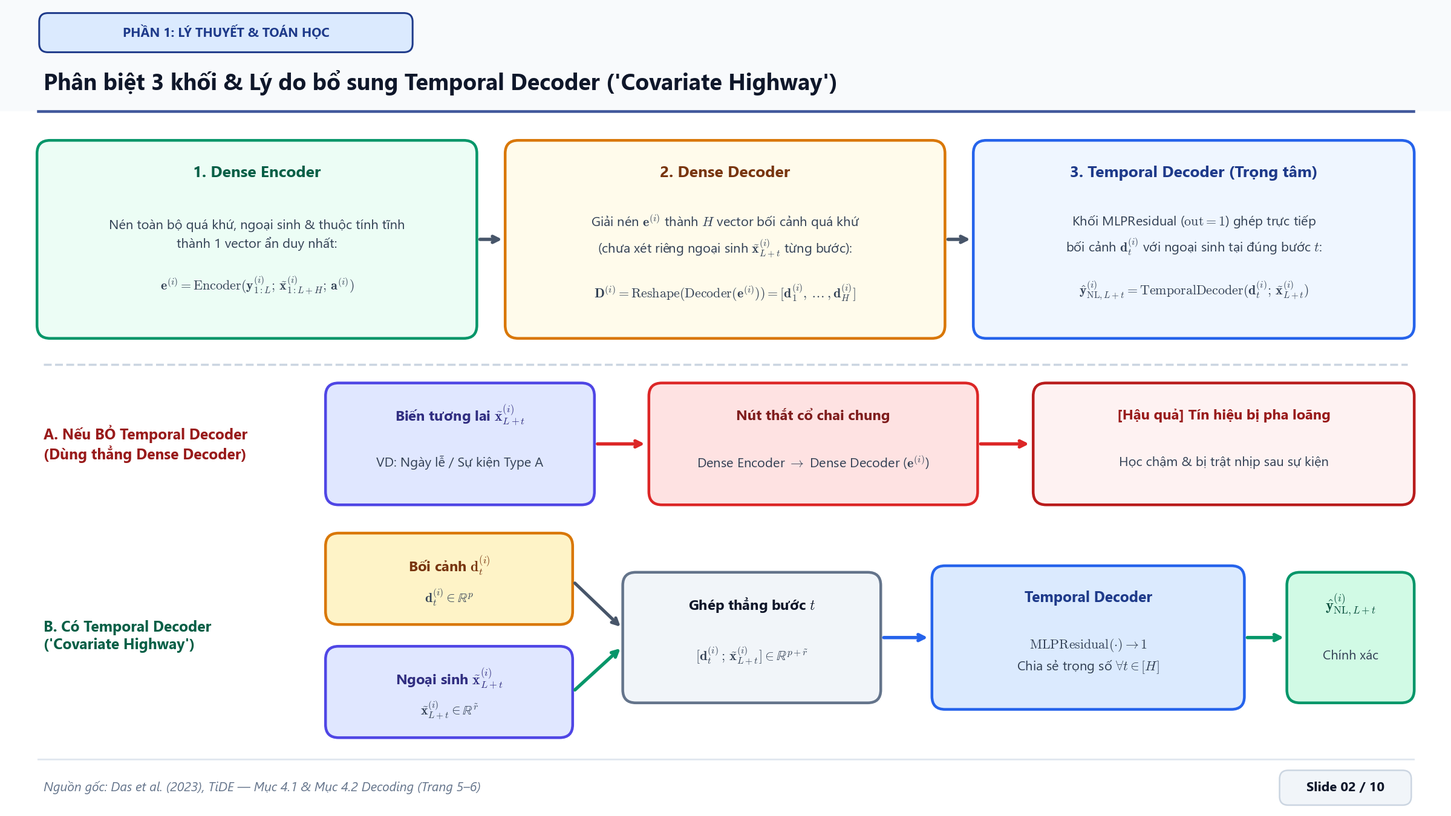
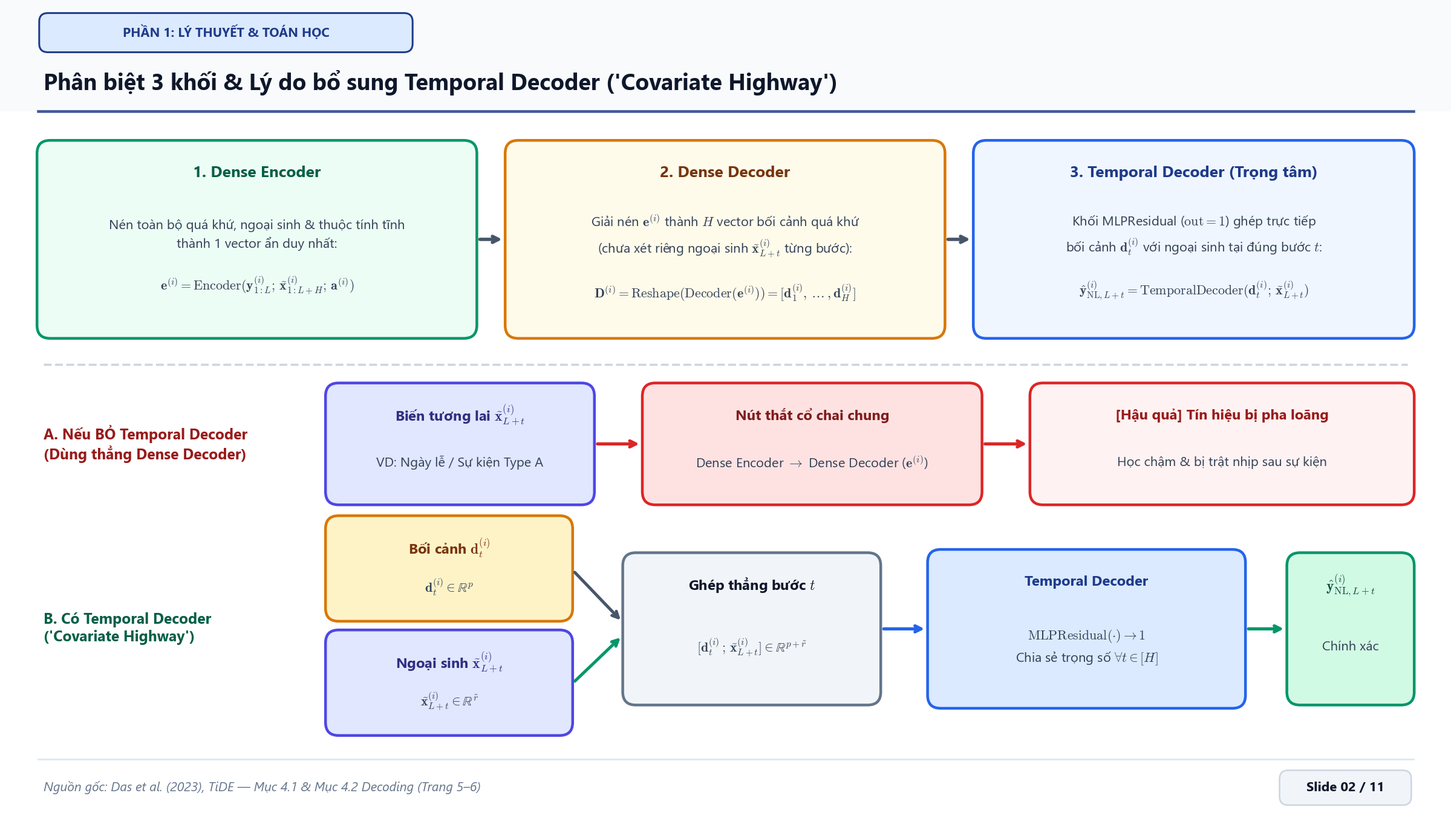
feat(slide): add Hyperparameters slide (Table 8 across 7 datasets) and update deck numbering to 11/11

diff --git a/tasks-Hieu/presentation/slide/slide_02_phan_2_source_code_va_phan_tich.md b/tasks-Hieu/presentation/slide/slide_02_phan_2_source_code_va_phan_tich.md
@@ -1,23 +1,27 @@
-# SLIDE 02 (PHẦN 2): SOURCE CODE & PHÂN TÍCH ABLATION STUDY — TEMPORAL DECODER VÀ GLOBAL RESIDUAL
+# SLIDE 02 (PHẦN 2): SOURCE CODE, HYPERPARAMETERS & PHÂN TÍCH ABLATION STUDY
 
 > [!NOTE]
-> **Mục tiêu Slide 02 (Phần 2):** Trình bày **Source code hiện thực tương ứng** trong repository gốc Google Research (`models.py`) và bản PyTorch trong dự án; phân tích vai trò thực chứng của **Temporal Decoder** và **Global Residual** qua hai thí nghiệm **Ablation Study** chính thức từ bài báo (Mục 5.4, Trang 10–11) cùng các giới hạn tiềm ẩn.
+> **Mục tiêu Slide 02 (Phần 2):** Trình bày **Source code hiện thực tương ứng** (`models.py` & PyTorch); hệ thống hóa **cấu hình Hyperparameters chính thức trên 7 Benchmark Datasets** (Phụ lục B.3, Table 7 & Table 8, Trang 20–21); và phân tích vai trò thực chứng của **Temporal Decoder** và **Global Residual** qua hai thí nghiệm **Ablation Study** (Mục 5.4, Trang 10–11).
 
 ---
 
 ## 🖼 Hình Ảnh & Sơ Đồ Minh Họa Đưa Lên Slide
 
-### 2.1. Slide 05 / 10 — Source code chính thức (`models.py`) & Ánh xạ phương trình toán học
+### 2.1. Slide 05 / 11 — Source code chính thức (`models.py`) & Ánh xạ phương trình toán học
 
 ![Slide 05: Source code models.py và ánh xạ phương trình](./images/slide_05_source_code_va_equation.png)
 
-### 2.2. Slide 06 / 10 — Ablation Study 1 (Figure 3 Trang 10–11): Vai trò Temporal Decoder
+### 2.2. Slide 06 / 11 — Cấu hình Siêu tham số (Hyperparameters — Table 7 & Table 8, Trang 20–21)
 
-![Slide 06: Ablation Study 1 Temporal Decoder Figure 3](./images/slide_06_ablation_temporal_decoder.png)
+![Slide 06: Cấu hình Siêu tham số Hyperparameters trên 7 Datasets](./images/slide_06_cau_hinh_hyperparameter.png)
 
-### 2.3. Slide 07 / 10 — Ablation Study 2 (Table 5 Trang 11): Vai trò Residual Connections (`Electricity`)
+### 2.3. Slide 07 / 11 — Ablation Study 1 (Figure 3 Trang 10–11): Vai trò Temporal Decoder
 
-![Slide 07: Ablation Study 2 Residual Connections Electricity](./images/slide_07_ablation_global_residual.png)
+![Slide 07: Ablation Study 1 Temporal Decoder Figure 3](./images/slide_07_ablation_temporal_decoder.png)
+
+### 2.4. Slide 08 / 11 — Ablation Study 2 (Table 5 Trang 11): Vai trò Residual Connections (`Electricity`)
+
+![Slide 08: Ablation Study 2 Residual Connections Electricity](./images/slide_08_ablation_global_residual.png)
 
 ---
 
@@ -55,14 +59,24 @@ y_hat_lin = self.global_skip(y_norm)                                 # Dòng 252
 y_hat_norm = y_hat_nl + y_hat_lin                                    # Dòng 265: [B, H]
 ```
 
-### 2. Phân tích Ablation Study 1: Vai trò Temporal Decoder (Figure 3, Trang 10–11)
+### 2. Cấu hình Siêu tham số (Hyperparameters — Phụ lục B.3, Table 7 & Table 8, Trang 20–21)
+
+* **Nhóm tham số cố định chung (*Global Settings*):** Cửa sổ quá khứ $L = 720$, tầm dự báo $H \in \{96, 192, 336, 720\}$, kích thước batch `batchSize = 512`, độ rộng nén ngoại sinh `temporalWidth` ($\tilde{r}$) $= 4$, hàm mất mát MSE, bộ tối ưu Adam với lịch giảm Cosine LR Decay; bật/tắt `layerNorm`, `dropoutLevel` và `revIn` theo từng bộ dữ liệu.
+* **Siêu tham số trực tiếp của 2 cơ chế trình bày:**
+  * **Temporal Decoder:** Dùng 2 siêu tham số chính là `decoderOutputDim` ($p \in \{4, 8, 16, 32\}$) và `temporalDecoderHidden` (thực nghiệm chọn $\in \{16, 64, 128\}$). Chiều đầu vào tầng cuối cố định bằng $p + \tilde{r} = p + 4$.
+  * **Global Residual Connection:** Không phát sinh siêu tham số ẩn; kích thước ma trận tuyến tính cố định hoàn toàn theo $(L, H) = (720, H)$.
+* **Quy luật chọn cấu hình trên 7 Benchmark Datasets (Table 8, Trang 21):**
+  * Các tập quy mô lớn nhiều chuỗi (`Traffic` 862 chuỗi, `Electricity` 321 chuỗi) đặt `temporalDecoderHidden = 64` với $p \in \{8, 16\}$.
+  * Nhóm `ETT` (`ETTm1`, `ETTm2`, `ETTh1`, `ETTh2` — 7 biến trạm biến áp) thường tăng `temporalDecoderHidden = 128` hoặc tăng $p = 32$ (`ETTh2`). Tập `Weather` biến thiên mượt hơn chỉ cần `temporalDecoderHidden = 16`, $p = 8$.
+
+### 3. Phân tích Ablation Study 1: Vai trò Temporal Decoder (Figure 3, Trang 10–11)
 
 * **Thiết kế thí nghiệm:** Dữ liệu `Electricity` bán tổng hợp thêm sự kiện **Type A** (nhân biên độ chuỗi lên hệ số ngẫu nhiên trong $[3.0, 3.2]$ kéo dài $24\text{h}$) và **Type B** (giảm theo hệ số $[2.0, 2.2]$) tác động lên $80\%$ chuỗi, đánh giá chỉ sau **1 Epoch**.
 * **Kết quả quan sát:**
   * **Trong khi xảy ra sự kiện Type A:** Bản có Temporal Decoder bám kịp biên độ tăng đột biến nhanh hơn nhờ đường cao tốc nối thẳng từ biến ngoại sinh chỉ báo sự kiện.
   * **Ngay sau khi sự kiện kết thúc (`Time > 200`):** Bản **không có Temporal Decoder (đường xanh lá) bị trật nhịp nặng (thrown off)** vì `Dense Encoder` chưa kịp điều chỉnh lại nhận thức về bối cảnh quá khứ; trong khi **bản có Temporal Decoder ổn định trở lại ngay lập tức** sau đúng 1 Epoch.
 
-### 3. Phân tích Ablation Study 2: Vai trò Global Residual (Table 5 / Figure 5, Trang 11 — Xem ảnh `2.3`)
+### 4. Phân tích Ablation Study 2: Vai trò Global Residual (Table 5 / Figure 5, Trang 11 — Xem Slide 08)
 
 * **Nhận xét trực tiếp từ ảnh số liệu bài báo gốc (Trung bình 5 lần chạy trên `Electricity`):**
   * **Ở các tầm dự báo $H = 96 \to 336$:** Khi loại bỏ các kết nối thặng dư (`TiDE no res.`), cả MSE và MAE đều **tăng lên rõ rệt và có ý nghĩa thống kê** (đặc biệt tại $H=336$, MSE tăng từ `0.161` lên `0.172` tương đương tăng $+6.8\%$ sai số, MAE tăng từ `0.261` lên `0.274`).
@@ -72,7 +86,7 @@ y_hat_norm = y_hat_nl + y_hat_lin                                    # Dòng 265
   * Trong bài báo gốc (**Mục 5.4, Trang 11**), nhóm tác giả Google Research **chỉ thực hiện thí nghiệm bỏ Residual (`TiDE no res.`) trên đúng 1 tập đại diện là `Electricity`**.
   * 6 tập còn lại (`Traffic`, `Weather`, `ETTh1/2`, `ETTm1/2`) chỉ được công bố kết quả cho bản TiDE đầy đủ tại **Table 2 (Trang 8)** và **Table 5 Phụ lục (Trang 19)** chứ tác giả **không chạy** `TiDE (no res.)` trên 6 tập đó. *(Đây chính là khoảng trống thực nghiệm ta đề xuất mở rộng ở Phần 3!)*
 
-### 4. Giới hạn tiềm ẩn của cơ chế tổng hợp hiện tại
+### 5. Giới hạn tiềm ẩn của cơ chế tổng hợp hiện tại
 
 1. **Cộng cứng tỷ lệ $1 : 1$ (`out += residual_out`):** Trọng số cố định ở mọi bước $t$ và mọi chuỗi $\implies$ dễ cộng thêm nhiễu phi tuyến vào vùng chuỗi đang vận động tuyến tính đều đặn.
 2. **Chưa lọc xu hướng mượt cho nhánh tuyến tính:** Khác với DLinear (tách Trend/Seasonal bằng Moving Average), TiDE chiếu thẳng $\mathbf{y}_{1:L}$ thô qua `self.linear`, dễ bị ảnh hưởng nếu lịch sử chứa các điểm nhiễu gai (*outliers*).
@@ -81,17 +95,17 @@ y_hat_norm = y_hat_nl + y_hat_lin                                    # Dòng 265
 
 ## 🎙 Kịch Bản Lời Nói Thuyết Trình (Speaker Notes)
 
-> "Sang Phần 2 là Source Code và Phân tích Ablation Study. Trên slide là mã nguồn trích nguyên văn từ file `models.py` trong repo gốc Google Research ở các dòng 141 đến 214, đặt cạnh bản PyTorch của dự án mình.
+> "Sang Phần 2 là Source Code, Hyperparameters và Phân tích Ablation Study. Trước hết trên Slide 05 là mã nguồn trích nguyên văn từ file `models.py` trong repo gốc Google Research ở các dòng 141 đến 214, đặt cạnh bản PyTorch của dự án mình — nhấn mạnh dòng 203 `residual_out`, dòng 211–213 `final_decoder`, và dòng 214 `out += residual_out`.
 >
-> Các bạn chú ý dòng 203 tính `residual_out`, dòng 211 ghép cặp `decoder_out` với biến ngoại sinh tương lai `enc_fut`, dòng 212 chạy `final_decoder`, và đúng tại **dòng 214**: `out += residual_out` cộng trực tiếp hai nhánh lại với nhau.
+> Tiếp theo trên **Slide 06 là bảng cấu hình Hyperparameters chính thức (Table 8, Trang 21)** cho toàn bộ 7 tập benchmark. Trong đó `batchSize=512` và `temporalWidth=4` được giữ cố định; riêng phần Temporal Decoder của chúng ta chỉ điều chỉnh đúng 2 tham số là `decoderOutputDim` ($p \in \{8, 16, 32\}$) và `temporalDecoderHidden` ($16, 64, 128$), còn nhánh Global Residual không cần thêm bất kỳ hyperparameter nào vì ánh xạ cố định $L \to H$.
 >
-> Để chứng minh hai thành phần này không hề thừa thãi, bài báo đưa ra 2 thí nghiệm Ablation Study ở Mục 5.4:
-> 1. Với **Temporal Decoder** (Ảnh Figure 3 trích từ Trang 10): Nhóm tác giả chèn sự kiện tăng biên độ gấp 3 lần trong 24 giờ trên tập Electricity. Chỉ sau đúng 1 Epoch, bản thiếu Temporal Decoder (đường xanh lá) bị trật nhịp vọt lên cao sau khi sự kiện kết thúc, còn bản đầy đủ xử lý mượt mà tức thì.
-> 2. Với **Residual Connections** (Ảnh Table 5 trích từ Trang 11): Khi loại bỏ toàn bộ kết nối thặng dư (`TiDE no res.`), sai số MSE/MAE ở các tầm dự báo 96 đến 336 đều tăng lên có ý nghĩa thống kê — ví dụ ở $H=336$, MSE tăng từ `0.161` lên `0.172`.
+> Để chứng minh hai thành phần này thực sự thiết yếu, bài báo đưa ra 2 thí nghiệm Ablation Study ở Mục 5.4:
+> 1. Với **Temporal Decoder** (**Slide 07**, Figure 3 Trang 10): Chỉ sau đúng 1 Epoch trên Electricity chèn sự kiện Type A gấp 3 lần biên độ, bản thiếu Temporal Decoder (đường xanh lá) bị trật nhịp vọt lên cao sau khi sự kiện kết thúc, còn bản đầy đủ xử lý mượt mà tức thì.
+> 2. Với **Residual Connections** (**Slide 08**, Table 5 Trang 11): Khi bỏ kết nối thặng dư (`TiDE no res.`), sai số MSE/MAE ở các tầm dự báo 96 đến 336 đều tăng rõ rệt — ví dụ ở $H=336$, MSE tăng từ `0.161` lên `0.172` ($+6.8\%$).
 >
-> Tuy nhiên, nhìn lại dòng code 214 `out += residual_out`, ta phát hiện ra một giới hạn lớn: đó là **phép cộng cứng 1:1**. Nó không biết tự điều tiết tỷ trọng lúc nào nên tin nhánh tuyến tính, lúc nào nên tin nhánh phi tuyến. Đây chính là điểm mở cho Phần 3 đề xuất cải tiến ngay sau đây."
+> Tuy nhiên, nhìn lại dòng code 214 `out += residual_out`, ta phát hiện ra giới hạn **cộng cứng 1:1** — mở đường cho Phần 3 đề xuất cải tiến ngay sau đây."
 
 ---
 
 > 📌 **Footer (Vị trí gốc đối chiếu trên Bài báo & Mã nguồn):**  
-> **Bài báo:** Das et al. (2023), *TiDE* — **Mục 5.4 Ablation Study, Figure 3 (Trang 10) & Table/Figure 5 (Trang 11)** | **Repo gốc:** [`google-research/tide/models.py#L141-L155`](https://github.com/google-research/google-research/blob/master/tide/models.py#L141-L155) & [`#L203-L214`](https://github.com/google-research/google-research/blob/master/tide/models.py#L203-L214) | **Dự án:** [`simulate_forward_pass.py#L228-L266`](../../../simulate_forward_pass.py#L228-L266)
+> **Bài báo:** Das et al. (2023), *TiDE* — **Phụ lục B.3 Table 7 & Table 8 (Trang 20–21)** & **Mục 5.4 Ablation Study, Figure 3 (Trang 10) & Table/Figure 5 (Trang 11)** | **Repo gốc:** [`google-research/tide/models.py#L141-L214`](https://github.com/google-research/google-research/blob/master/tide/models.py#L141-L214) & [`simulate_forward_pass.py#L228-L266`](../../../simulate_forward_pass.py#L228-L266)

diff --git a/tasks-Hieu/presentation/slide/README.md b/tasks-Hieu/presentation/slide/README.md
@@ -4,27 +4,28 @@
 
 ---
 
-## 📑 Danh Sách 3 Phần Slide Chính Thức (Chuẩn Seminar 16:9 — 10 Slides)
+## 📑 Danh Sách 3 Phần Slide Chính Thức (Chuẩn Seminar 16:9 — 11 Slides)
 
 | Phần | File Nội Dung Chi Tiết | Nội Dung & Yêu Cầu Đáp Ứng | Slides Đính Kèm (`images/`) |
 | :---: | :--- | :--- | :--- |
-| **Phần 1** | 📖 [**`slide_01_phan_1_ly_thuyet_va_toan_hoc.md`**](./slide_01_phan_1_ly_thuyet_va_toan_hoc.md) | **Lý thuyết & Toán học (Slides 01–04):**<br>• Định vị Figure 1 (Trang 5).<br>• Tách 3 Card: Dense Encoder • Dense Decoder • Temporal Decoder & Covariate Highway.<br>• Hai nhánh song song & phương trình tổng hợp.<br>• Chứng minh DLinear $\subset$ TiDE & Tensor Shapes (`Electricity`). | • [`slide_01_vi_tri_kien_truc.png`](./images/slide_01_vi_tri_kien_truc.png)<br>• [`slide_02_phan_biet_3_khoi_va_highway.png`](./images/slide_02_phan_biet_3_khoi_va_highway.png)<br>• [`slide_03_hai_nhanh_song_song.png`](./images/slide_03_hai_nhanh_song_song.png)<br>• [`slide_04_lien_he_dlinear_va_tensor.png`](./images/slide_04_lien_he_dlinear_va_tensor.png) |
-| **Phần 2** | 💻 [**`slide_02_phan_2_source_code_va_phan_tich.md`**](./slide_02_phan_2_source_code_va_phan_tich.md) | **Source code & Phân tích Ablation (Slides 05–07):**<br>• Code chính thức Google Research (`models.py#L128-L215`) ánh xạ thẳng ra Equations.<br>• Ablation Study 1 (Figure 3 Trang 10–11): Sự kiện Type A sau 1 Epoch.<br>• Ablation Study 2 (Table 5 Trang 11): Kết quả gốc trên `Electricity` & lý do chỉ show 1/7 tập. | • [`slide_05_source_code_va_equation.png`](./images/slide_05_source_code_va_equation.png)<br>• [`slide_06_ablation_temporal_decoder.png`](./images/slide_06_ablation_temporal_decoder.png)<br>• [`slide_07_ablation_global_residual.png`](./images/slide_07_ablation_global_residual.png) |
-| **Phần 3** | 💡 [**`slide_03_phan_3_de_xuat_cai_tien.md`**](./slide_03_phan_3_de_xuat_cai_tien.md) | **Đề xuất & Đóng góp (Slides 08–10):**<br>• Đề xuất 1 (3.1): *Adaptive Gated Fusion* (+21 params).<br>• Đề xuất 2 (3.2): *Trend-Aware Dual-Stream* tách Trend kiểu DLinear.<br>• Đóng góp 3.3 (Contributions): Chính xác đa chế độ • Giải thích được $\alpha_t$ • Lấp khoảng trống 6/7 tập Ablation. | • [`slide_08_de_xuat_1_gated_fusion.png`](./images/slide_08_de_xuat_1_gated_fusion.png)<br>• [`slide_09_de_xuat_2_trend_aware.png`](./images/slide_09_de_xuat_2_trend_aware.png)<br>• [`slide_10_contributions_va_roadmap.png`](./images/slide_10_contributions_va_roadmap.png) |
+| **Phần 1** | 📖 [**`slide_01_phan_1_ly_thuyet_va_toan_hoc.md`**](./slide_01_phan_1_ly_thuyet_va_toan_hoc.md) | **Lý thuyết & Toán học (Slides 01–04):**<br>• Định vị Figure 1 (Trang 5).<br>• Tách 3 Card: Dense Encoder • Dense Decoder • Temporal Decoder & Covariate Highway.<br>• Hai nhánh song song & phương trình tổng hợp.<br>• Chứng minh DLinear $\subset$ TiDE & Tensor Shapes. | • [`slide_01_vi_tri_kien_truc.png`](./images/slide_01_vi_tri_kien_truc.png)<br>• [`slide_02_phan_biet_3_khoi_va_highway.png`](./images/slide_02_phan_biet_3_khoi_va_highway.png)<br>• [`slide_03_hai_nhanh_song_song.png`](./images/slide_03_hai_nhanh_song_song.png)<br>• [`slide_04_lien_he_dlinear_va_tensor.png`](./images/slide_04_lien_he_dlinear_va_tensor.png) |
+| **Phần 2** | 💻 [**`slide_02_phan_2_source_code_va_phan_tich.md`**](./slide_02_phan_2_source_code_va_phan_tich.md) | **Source code, Hyperparameter & Ablation (Slides 05–08):**<br>• Code chính thức Google Research (`models.py#L128-L215`) ánh xạ thẳng ra Equations.<br>• **Hyperparameters (Table 7 & Table 8, Trang 20–21):** cấu hình 7 datasets.<br>• Ablation Study 1 (Figure 3 Trang 10–11): Sự kiện Type A sau 1 Epoch.<br>• Ablation Study 2 (Table 5 Trang 11): Kết quả gốc trên `Electricity` & lý do chỉ show 1/7 tập. | • [`slide_05_source_code_va_equation.png`](./images/slide_05_source_code_va_equation.png)<br>• [`slide_06_cau_hinh_hyperparameter.png`](./images/slide_06_cau_hinh_hyperparameter.png)<br>• [`slide_07_ablation_temporal_decoder.png`](./images/slide_07_ablation_temporal_decoder.png)<br>• [`slide_08_ablation_global_residual.png`](./images/slide_08_ablation_global_residual.png) |
+| **Phần 3** | 💡 [**`slide_03_phan_3_de_xuat_cai_tien.md`**](./slide_03_phan_3_de_xuat_cai_tien.md) | **Đề xuất & Đóng góp (Slides 09–11):**<br>• Đề xuất 1 (3.1): *Adaptive Gated Fusion* (+21 params).<br>• Đề xuất 2 (3.2): *Trend-Aware Dual-Stream* tách Trend kiểu DLinear.<br>• Đóng góp 3.3 (Contributions): Chính xác đa chế độ • Giải thích được $\alpha_t$ • Lấp khoảng trống 6/7 tập Ablation. | • [`slide_09_de_xuat_1_gated_fusion.png`](./images/slide_09_de_xuat_1_gated_fusion.png)<br>• [`slide_10_de_xuat_2_trend_aware.png`](./images/slide_10_de_xuat_2_trend_aware.png)<br>• [`slide_11_contributions_va_roadmap.png`](./images/slide_11_contributions_va_roadmap.png) |
 
 ---
 
-## 🖼 Thư Viện 10 Slide Trình Chiếu Chuẩn 16:9 (`images/` & [`slide_images_gallery.md`](./slide_images_gallery.md))
-👉 **Xem toàn bộ 10 slide đánh số (`Slide 01 / 10` → `Slide 10 / 10`) trong 1 file duy nhất:** [**`slide_images_gallery.md`**](./slide_images_gallery.md)
+## 🖼 Thư Viện 11 Slide Trình Chiếu Chuẩn 16:9 (`images/` & [`slide_images_gallery.md`](./slide_images_gallery.md))
+👉 **Xem toàn bộ 11 slide đánh số (`Slide 01 / 11` → `Slide 11 / 11`) trong 1 file duy nhất:** [**`slide_images_gallery.md`**](./slide_images_gallery.md)
 
-Tất cả 10 slide PNG đồng bộ chuẩn Seminar 16:9 (180 DPI, thống nhất typography, header/footer nguồn gốc và số trang) đã nằm sẵn trong [`images/`](./images/) để trình chiếu trực tiếp:
-* `Slide 01 / 10`: [`slide_01_vi_tri_kien_truc.png`](./images/slide_01_vi_tri_kien_truc.png) — Vị trí khoanh vùng Temporal Decoder & Global Residual trên Figure 1 gốc
-* `Slide 02 / 10`: [`slide_02_phan_biet_3_khoi_va_highway.png`](./images/slide_02_phan_biet_3_khoi_va_highway.png) — Tách 3 Card riêng (Dense Encoder • Dense Decoder • Temporal Decoder) & Cơ chế Highway
-* `Slide 03 / 10`: [`slide_03_hai_nhanh_song_song.png`](./images/slide_03_hai_nhanh_song_song.png) — Sơ đồ 2 nhánh song song tạo dự báo cuối cùng
-* `Slide 04 / 10`: [`slide_04_lien_he_dlinear_va_tensor.png`](./images/slide_04_lien_he_dlinear_va_tensor.png) — Chứng minh DLinear là lớp con của TiDE & Luồng Tensor Shapes
-* `Slide 05 / 10`: [`slide_05_source_code_va_equation.png`](./images/slide_05_source_code_va_equation.png) — Show nguyên đoạn Code gốc (`models.py#L128-L215`) ánh xạ thẳng ra Equations
-* `Slide 06 / 10`: [`slide_06_ablation_temporal_decoder.png`](./images/slide_06_ablation_temporal_decoder.png) — Ablation Study 1 (Figure 3 Trang 10–11): Temporal Decoder sau 1 Epoch
-* `Slide 07 / 10`: [`slide_07_ablation_global_residual.png`](./images/slide_07_ablation_global_residual.png) — Ablation Study 2 (Ảnh cắt gốc Table 5 Trang 11): Vai trò Residual Connections (`Electricity`)
-* `Slide 08 / 10`: [`slide_08_de_xuat_1_gated_fusion.png`](./images/slide_08_de_xuat_1_gated_fusion.png) — Đề xuất 1: Adaptive Gated Fusion so sánh với TiDE gốc
-* `Slide 09 / 10`: [`slide_09_de_xuat_2_trend_aware.png`](./images/slide_09_de_xuat_2_trend_aware.png) — Đề xuất 2: Trend-Aware Dual-Stream tách MovingAvg kiểu DLinear
-* `Slide 10 / 10`: [`slide_10_contributions_va_roadmap.png`](./images/slide_10_contributions_va_roadmap.png) — Đóng góp khoa học (Contributions) & Lộ trình kiểm chứng thực nghiệm
+Tất cả 11 slide PNG đồng bộ chuẩn Seminar 16:9 (180 DPI, thống nhất typography, header/footer nguồn gốc và số trang) đã nằm sẵn trong [`images/`](./images/) để trình chiếu trực tiếp:
+* `Slide 01 / 11`: [`slide_01_vi_tri_kien_truc.png`](./images/slide_01_vi_tri_kien_truc.png) — Vị trí khoanh vùng Temporal Decoder & Global Residual trên Figure 1 gốc
+* `Slide 02 / 11`: [`slide_02_phan_biet_3_khoi_va_highway.png`](./images/slide_02_phan_biet_3_khoi_va_highway.png) — Tách 3 Card riêng (Dense Encoder • Dense Decoder • Temporal Decoder) & Cơ chế Highway
+* `Slide 03 / 11`: [`slide_03_hai_nhanh_song_song.png`](./images/slide_03_hai_nhanh_song_song.png) — Sơ đồ 2 nhánh song song tạo dự báo cuối cùng
+* `Slide 04 / 11`: [`slide_04_lien_he_dlinear_va_tensor.png`](./images/slide_04_lien_he_dlinear_va_tensor.png) — Chứng minh DLinear là lớp con của TiDE & Luồng Tensor Shapes
+* `Slide 05 / 11`: [`slide_05_source_code_va_equation.png`](./images/slide_05_source_code_va_equation.png) — Show nguyên đoạn Code gốc (`models.py#L128-L215`) ánh xạ thẳng ra Equations
+* `Slide 06 / 11`: [`slide_06_cau_hinh_hyperparameter.png`](./images/slide_06_cau_hinh_hyperparameter.png) — Cấu hình Siêu tham số chính thức trên 7 Benchmark Datasets (Table 7 & Table 8, Trang 20–21)
+* `Slide 07 / 11`: [`slide_07_ablation_temporal_decoder.png`](./images/slide_07_ablation_temporal_decoder.png) — Ablation Study 1 (Figure 3 Trang 10–11): Temporal Decoder sau 1 Epoch
+* `Slide 08 / 11`: [`slide_08_ablation_global_residual.png`](./images/slide_08_ablation_global_residual.png) — Ablation Study 2 (Ảnh cắt gốc Table 5 Trang 11): Vai trò Residual Connections (`Electricity`)
+* `Slide 09 / 11`: [`slide_09_de_xuat_1_gated_fusion.png`](./images/slide_09_de_xuat_1_gated_fusion.png) — Đề xuất 1: Adaptive Gated Fusion so sánh với TiDE gốc
+* `Slide 10 / 11`: [`slide_10_de_xuat_2_trend_aware.png`](./images/slide_10_de_xuat_2_trend_aware.png) — Đề xuất 2: Trend-Aware Dual-Stream tách MovingAvg kiểu DLinear
+* `Slide 11 / 11`: [`slide_11_contributions_va_roadmap.png`](./images/slide_11_contributions_va_roadmap.png) — Đóng góp khoa học (Contributions) & Lộ trình kiểm chứng thực nghiệm

diff --git a/tasks-Hieu/presentation/slide/slide_images_gallery.md b/tasks-Hieu/presentation/slide/slide_images_gallery.md
@@ -1,80 +1,87 @@
 # 🖼 THƯ VIỆN ẢNH TRÌNH CHIẾU THEO TỪNG NỘI DUNG SLIDE
 
 > [!NOTE]
-> File này tổng hợp **10 Slide trình chiếu chuẩn Seminar 16:9 đồng bộ** (180 DPI, đánh số từ **Slide 01 / 10** đến **Slide 10 / 10**, đồng nhất bảng màu, font chữ, cỡ Header/Body/Card và Footer trích nguồn) xếp đúng **1-đối-1 theo từng mục nội dung**.
+> File này tổng hợp **11 Slide trình chiếu chuẩn Seminar 16:9 đồng bộ** (180 DPI, đánh số từ **Slide 01 / 11** đến **Slide 11 / 11**, đồng nhất bảng màu, font chữ, cỡ Header/Body/Card và Footer trích nguồn) xếp đúng **1-đối-1 theo từng mục nội dung**.
 
 ---
 
 ## 📖 PHẦN 1: LÝ THUYẾT & TOÁN HỌC ([`slide_01_phan_1_ly_thuyet_va_toan_hoc.md`](./slide_01_phan_1_ly_thuyet_va_toan_hoc.md))
 
-### Slide 01 / 10 (1.1) — Định vị hai cơ chế trên Figure 1 gốc (Trang 5)
+### Slide 01 / 11 (1.1) — Định vị hai cơ chế trên Figure 1 gốc (Trang 5)
 * **Nguồn gốc:** Trích trực tiếp **Figure 1 (Trang 5)** bài báo gốc. Khoanh rõ đúng 2 khối trình bày: `Global Residual Connection` (xanh lá) và `Temporal Decoder` (xanh dương).
 
 ![Slide 01: Vị trí Temporal Decoder và Global Residual trên Figure 1](./images/slide_01_vi_tri_kien_truc.png)
 
 ---
 
-### Slide 02 / 10 (1.2) — Tách 3 Card riêng biệt (Dense Encoder • Dense Decoder • Temporal Decoder) & Cơ chế "Covariate Highway"
+### Slide 02 / 11 (1.2) — Tách 3 Card riêng biệt (Dense Encoder • Dense Decoder • Temporal Decoder) & Cơ chế "Covariate Highway"
 * **Nguồn gốc:** Diễn giải **Mục 4.1–4.2 (Trang 5–6)**. Tách 3 khối thành 3 thẻ riêng kèm phương trình toán chuẩn để giải thích vì sao bỏ `Temporal Decoder` sẽ làm tín hiệu ngoại sinh tương lai bị pha loãng qua nút thắt chung.
 
 ![Slide 02: Phân biệt 3 khối và Covariate Highway](./images/slide_02_phan_biet_3_khoi_va_highway.png)
 
 ---
 
-### Slide 03 / 10 (1.3) — Luồng song song hai cơ chế & Phương trình tổng hợp dự báo cuối cùng
+### Slide 03 / 11 (1.3) — Luồng song song hai cơ chế & Phương trình tổng hợp dự báo cuối cùng
 * **Nguồn gốc:** Trực quan hóa **Mục 4.2 Decoding (Trang 6)** với phương trình chuẩn $\hat{\mathbf{y}}_{L+1:L+H}^{(i)} = \mathrm{TemporalDecoder}(\mathbf{d}_t^{(i)}; \tilde{\mathbf{x}}_{L+t}^{(i)}) + \mathbf{W}_{\mathrm{res}}\mathbf{y}_{1:L}^{(i)}$.
 
 ![Slide 03: Hai cơ chế song song tạo dự báo cuối cùng](./images/slide_03_hai_nhanh_song_song.png)
 
 ---
 
-### Slide 04 / 10 (1.4) — Chứng minh toán học mối liên hệ với DLinear & Luồng kích thước Tensor
-* **Nguồn gốc:** Diễn giải nhận định *"a purely linear model like (Zeng et al., 2023) is always a subclass of our model"* tại **Mục 4.2 (Trang 6)** & cấu hình **Table 8**.
+### Slide 04 / 11 (1.4) — Chứng minh toán học mối liên hệ với DLinear & Luồng kích thước Tensor
+* **Nguồn gốc:** Diễn giải nhận định *"a purely linear model like (Zeng et al., 2023) is always a subclass of our model"* tại **Mục 4.2 (Trang 6)** & cấu hình smoke test.
 
 ![Slide 04: Mối liên hệ DLinear và Kích thước Tensor](./images/slide_04_lien_he_dlinear_va_tensor.png)
 
 ---
 
-## 💻 PHẦN 2: SOURCE CODE & PHÂN TÍCH ABLATION STUDY ([`slide_02_phan_2_source_code_va_phan_tich.md`](./slide_02_phan_2_source_code_va_phan_tich.md))
+## 💻 PHẦN 2: SOURCE CODE, HYPERPARAMETERS & ABLATION STUDY ([`slide_02_phan_2_source_code_va_phan_tich.md`](./slide_02_phan_2_source_code_va_phan_tich.md))
 
-### Slide 05 / 10 (2.1) — Source code chính thức (`models.py`) & Ánh xạ thẳng ra Phương trình Toán học
+### Slide 05 / 11 (2.1) — Source code chính thức (`models.py`) & Ánh xạ thẳng ra Phương trình Toán học
 * **Nguồn gốc:** Repo chính thức Google Research [`tide/models.py#L141-L214`](https://github.com/google-research/google-research/blob/master/tide/models.py#L141-L214) & [`simulate_forward_pass.py#L228-L266`](../../../simulate_forward_pass.py#L228-L266).
 
 ![Slide 05: Source code models.py và ánh xạ phương trình](./images/slide_05_source_code_va_equation.png)
 
 ---
 
-### Slide 06 / 10 (2.2) — Ablation Study 1: Vai trò Temporal Decoder (Ảnh gốc từ bài báo)
-* **Nguồn gốc:** Trích trực tiếp **Figure 3 — Mục 5.4 Ablation Study (Trang 10–11)** bài báo gốc kèm 3 thẻ phân tích ngắn gọn.
+### Slide 06 / 11 (2.2) — Cấu hình Siêu tham số (Hyperparameters) trên 7 Benchmark Datasets
+* **Nguồn gốc:** Trích trực tiếp **Table 8 (Trang 21)** & **Phụ lục B.3 / Table 7 (Trang 20)** — làm rõ `decoderOutputDim` ($p$), `temporalDecoderHidden`, `temporalWidth` ($\tilde{r}=4$), `batchSize=512` và quy luật chọn cho 7 tập dữ liệu.
 
-![Slide 06: Ablation Study 1 Temporal Decoder Figure 3](./images/slide_06_ablation_temporal_decoder.png)
+![Slide 06: Cấu hình Siêu tham số Hyperparameters trên 7 Datasets](./images/slide_06_cau_hinh_hyperparameter.png)
 
 ---
 
-### Slide 07 / 10 (2.3) — Ablation Study 2: Vai trò Residual Connections (Ảnh gốc từ bài báo — `Electricity`)
+### Slide 07 / 11 (2.3) — Ablation Study 1: Vai trò Temporal Decoder (Ảnh gốc từ bài báo)
+* **Nguồn gốc:** Trích trực tiếp **Figure 3 — Mục 5.4 Ablation Study (Trang 10–11)** bài báo gốc kèm 3 thẻ phân tích ngắn gọn.
+
+![Slide 07: Ablation Study 1 Temporal Decoder Figure 3](./images/slide_07_ablation_temporal_decoder.png)
+
+---
+
+### Slide 08 / 11 (2.4) — Ablation Study 2: Vai trò Residual Connections (Ảnh gốc từ bài báo — `Electricity`)
 * **Nguồn gốc:** Trích trực tiếp **Figure 5 / Table 5 — Mục 5.4 Ablation Study (Trang 11)** bài báo gốc (Tác giả chỉ thực nghiệm bỏ Residual trên 1/7 tập đại diện là `Electricity`).
 
-![Slide 07: Ablation Study 2 Residual Connections Electricity](./images/slide_07_ablation_global_residual.png)
+![Slide 08: Ablation Study 2 Residual Connections Electricity](./images/slide_08_ablation_global_residual.png)
 
 ---
 
 ## 💡 PHẦN 3: ĐỀ XUẤT CẢI TIẾN & CONTRIBUTIONS ([`slide_03_phan_3_de_xuat_cai_tien.md`](./slide_03_phan_3_de_xuat_cai_tien.md))
 
-### Slide 08 / 10 (3.1) — Đề xuất 1: Cổng Hợp Nhất Thích Nghi (*Adaptive Gated Fusion*) vs Cộng cứng `1:1`
+### Slide 09 / 11 (3.1) — Đề xuất 1: Cổng Hợp Nhất Thích Nghi (*Adaptive Gated Fusion*) vs Cộng cứng `1:1`
 * **Nguồn gốc:** Mở rộng trực tiếp từ dòng tổng hợp `out += residual_out` tại [`models.py#L214`](https://github.com/google-research/google-research/blob/master/tide/models.py#L214).
 
-![Slide 08: So sánh TiDE gốc và Adaptive Gated Fusion](./images/slide_08_de_xuat_1_gated_fusion.png)
+![Slide 09: So sánh TiDE gốc và Adaptive Gated Fusion](./images/slide_09_de_xuat_1_gated_fusion.png)
 
 ---
 
-### Slide 09 / 10 (3.2) — Đề xuất 2: Tách Xu Hướng Kiểu DLinear Cho Nhánh Tuyến Tính (*Trend-Aware Dual-Stream*)
+### Slide 10 / 11 (3.2) — Đề xuất 2: Tách Xu Hướng Kiểu DLinear Cho Nhánh Tuyến Tính (*Trend-Aware Dual-Stream*)
 * **Nguồn gốc:** Kết hợp bộ lọc `MovingAvg(k=25)` kiểu DLinear để bảo vệ nhánh `self.linear` ([`models.py#L203`](https://github.com/google-research/google-research/blob/master/tide/models.py#L203)) khỏi nhiễu gai *outliers*.
 
-![Slide 09: Đề xuất 2 Trend Aware Dual Stream](./images/slide_09_de_xuat_2_trend_aware.png)
+![Slide 10: Đề xuất 2 Trend Aware Dual Stream](./images/slide_10_de_xuat_2_trend_aware.png)
 
 ---
 
-### Slide 10 / 10 (3.3) — Đóng góp khoa học (Contributions) & Lộ trình kiểm chứng thực nghiệm
+### Slide 11 / 11 (3.3) — Đóng góp khoa học (Contributions) & Lộ trình kiểm chứng thực nghiệm
 * **Nguồn gốc:** Tổng hợp 3 đóng góp khoa học kỳ vọng (Chính xác đa chế độ • Siêu nhẹ +21 params & Giải thích được • Lấp khoảng trống 6/7 dataset chưa chạy Ablation) kèm kịch bản Ablation Protocol.
 
-![Slide 10: Đóng góp khoa học và lộ trình thực nghiệm](./images/slide_10_contributions_va_roadmap.png)
+![Slide 11: Đóng góp khoa học và lộ trình thực nghiệm](./images/slide_11_contributions_va_roadmap.png)

diff --git a/tasks-Hieu/presentation/slide/slide_03_phan_3_de_xuat_cai_tien.md b/tasks-Hieu/presentation/slide/slide_03_phan_3_de_xuat_cai_tien.md
@@ -7,17 +7,17 @@
 
 ## 🖼 Hình Ảnh & Sơ Đồ Minh Họa Đưa Lên Slide
 
-### 3.1. Slide 08 / 10 — Đề xuất 1: Cổng Hợp Nhất Thích Nghi (*Adaptive Gated Fusion*) vs Cộng cứng `1:1`
+### 3.1. Slide 09 / 11 — Đề xuất 1: Cổng Hợp Nhất Thích Nghi (*Adaptive Gated Fusion*) vs Cộng cứng `1:1`
 
-![Slide 08: So sánh TiDE gốc và Adaptive Gated Fusion](./images/slide_08_de_xuat_1_gated_fusion.png)
+![Slide 09: So sánh TiDE gốc và Adaptive Gated Fusion](./images/slide_09_de_xuat_1_gated_fusion.png)
 
-### 3.2. Slide 09 / 10 — Đề xuất 2: Tách Xu Hướng Kiểu DLinear (*Trend-Aware Dual-Stream*)
+### 3.2. Slide 10 / 11 — Đề xuất 2: Tách Xu Hướng Kiểu DLinear (*Trend-Aware Dual-Stream*)
 
-![Slide 09: Đề xuất 2 Trend Aware Dual Stream](./images/slide_09_de_xuat_2_trend_aware.png)
+![Slide 10: Đề xuất 2 Trend Aware Dual Stream](./images/slide_10_de_xuat_2_trend_aware.png)
 
-### 3.3. Slide 10 / 10 — Đóng Góp Khoa Học (Contributions) & Lộ Trình Thực Nghiệm
+### 3.3. Slide 11 / 11 — Đóng Góp Khoa Học (Contributions) & Lộ Trình Thực Nghiệm
 
-![Slide 10: Đóng góp khoa học và lộ trình thực nghiệm](./images/slide_10_contributions_va_roadmap.png)
+![Slide 11: Đóng góp khoa học và lộ trình thực nghiệm](./images/slide_11_contributions_va_roadmap.png)
 
 ### 3.4. Sơ đồ khối Mermaid (Hiển thị trực tiếp trên GitHub)
 

diff --git a/tasks-Hieu/presentation/slide/slide_01_phan_1_ly_thuyet_va_toan_hoc.md b/tasks-Hieu/presentation/slide/slide_01_phan_1_ly_thuyet_va_toan_hoc.md
@@ -9,19 +9,19 @@
 
 ## 🖼 Hình Ảnh & Sơ Đồ Minh Họa Đưa Lên Slide
 
-### 1.1. Slide 01 / 10 — Phạm vi thuyết trình trên Figure 1 (Không trình bày phần bên dưới)
+### 1.1. Slide 01 / 11 — Phạm vi thuyết trình trên Figure 1 (Không trình bày phần bên dưới)
 
 ![Slide 01: Vị trí Temporal Decoder và Global Residual trên Figure 1](./images/slide_01_vi_tri_kien_truc.png)
 
-### 1.2. Slide 02 / 10 — Tách 3 Card riêng biệt & Lý do phải có Temporal Decoder ("Covariate Highway")
+### 1.2. Slide 02 / 11 — Tách 3 Card riêng biệt & Lý do phải có Temporal Decoder ("Covariate Highway")
 
 ![Slide 02: Phân biệt 3 khối và Covariate Highway](./images/slide_02_phan_biet_3_khoi_va_highway.png)
 
-### 1.3. Slide 03 / 10 — Hai cơ chế song song trực tiếp tạo dự báo cuối cùng
+### 1.3. Slide 03 / 11 — Hai cơ chế song song trực tiếp tạo dự báo cuối cùng
 
 ![Slide 03: Hai cơ chế song song tạo dự báo cuối cùng](./images/slide_03_hai_nhanh_song_song.png)
 
-### 1.4. Slide 04 / 10 — Chứng minh mối liên hệ DLinear & Kích thước Tensor (`Electricity`)
+### 1.4. Slide 04 / 11 — Chứng minh mối liên hệ DLinear & Kích thước Tensor (`Electricity`)
 
 ![Slide 04: Mối liên hệ DLinear và Kích thước Tensor](./images/slide_04_lien_he_dlinear_va_tensor.png)
 
